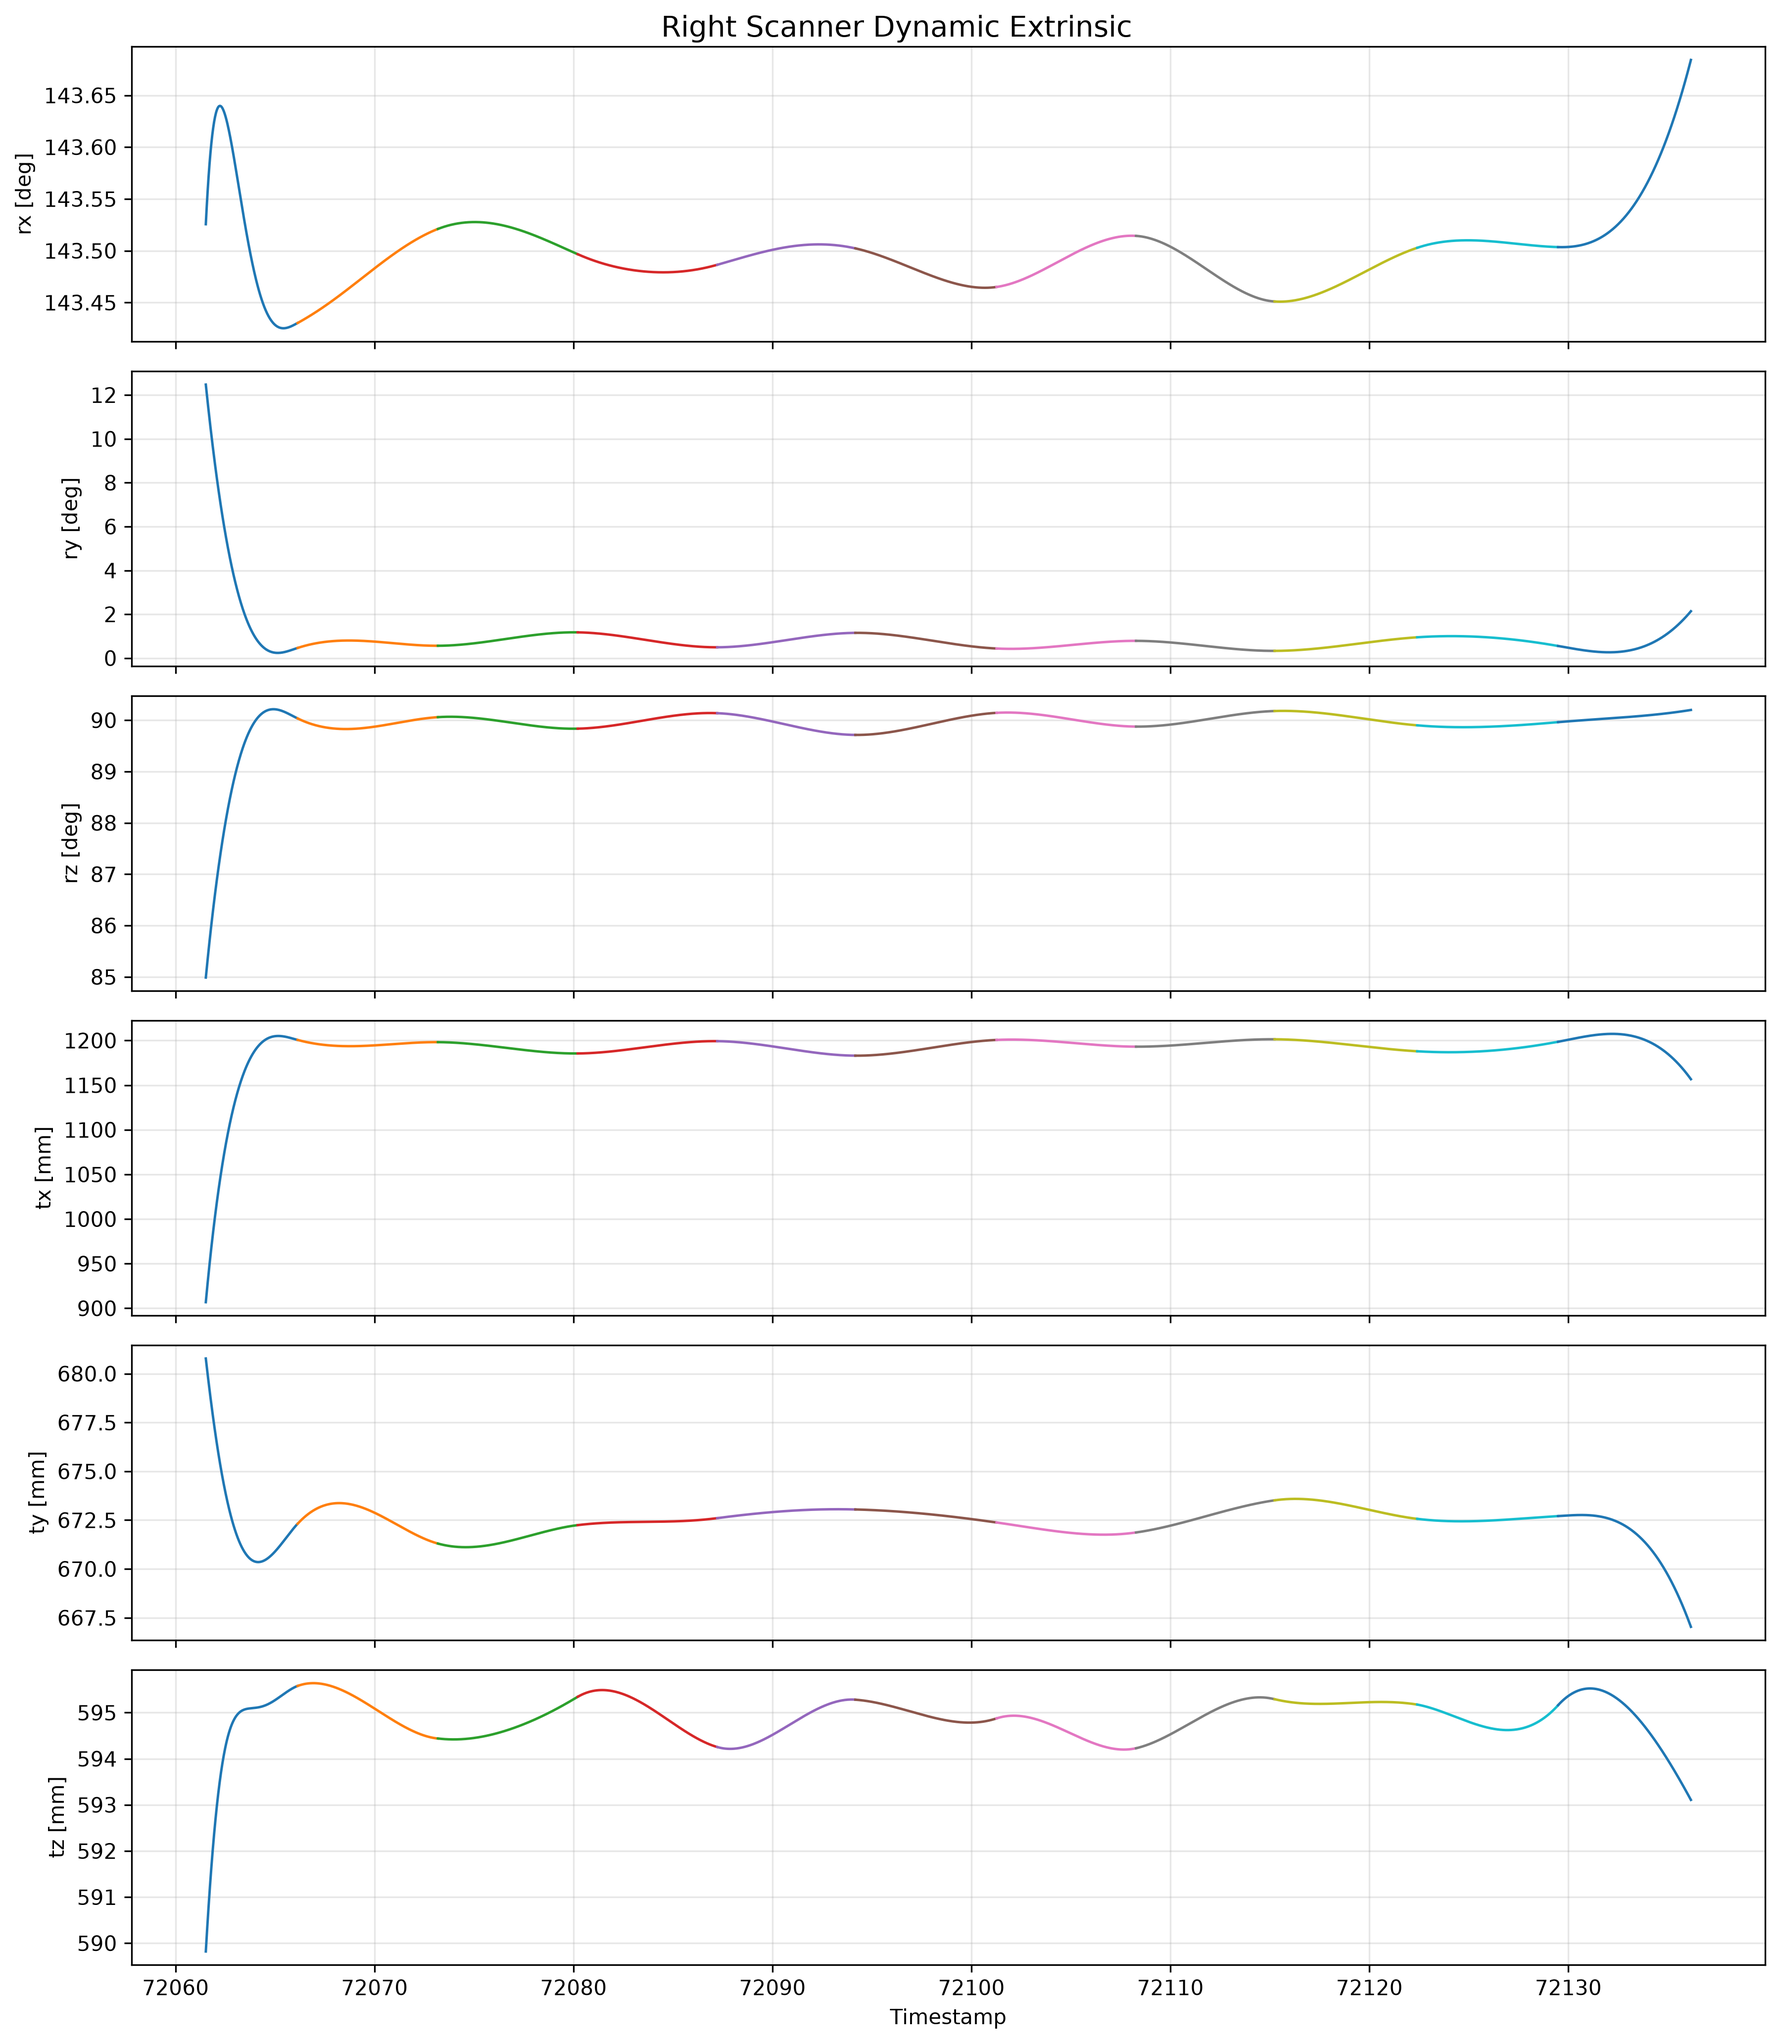
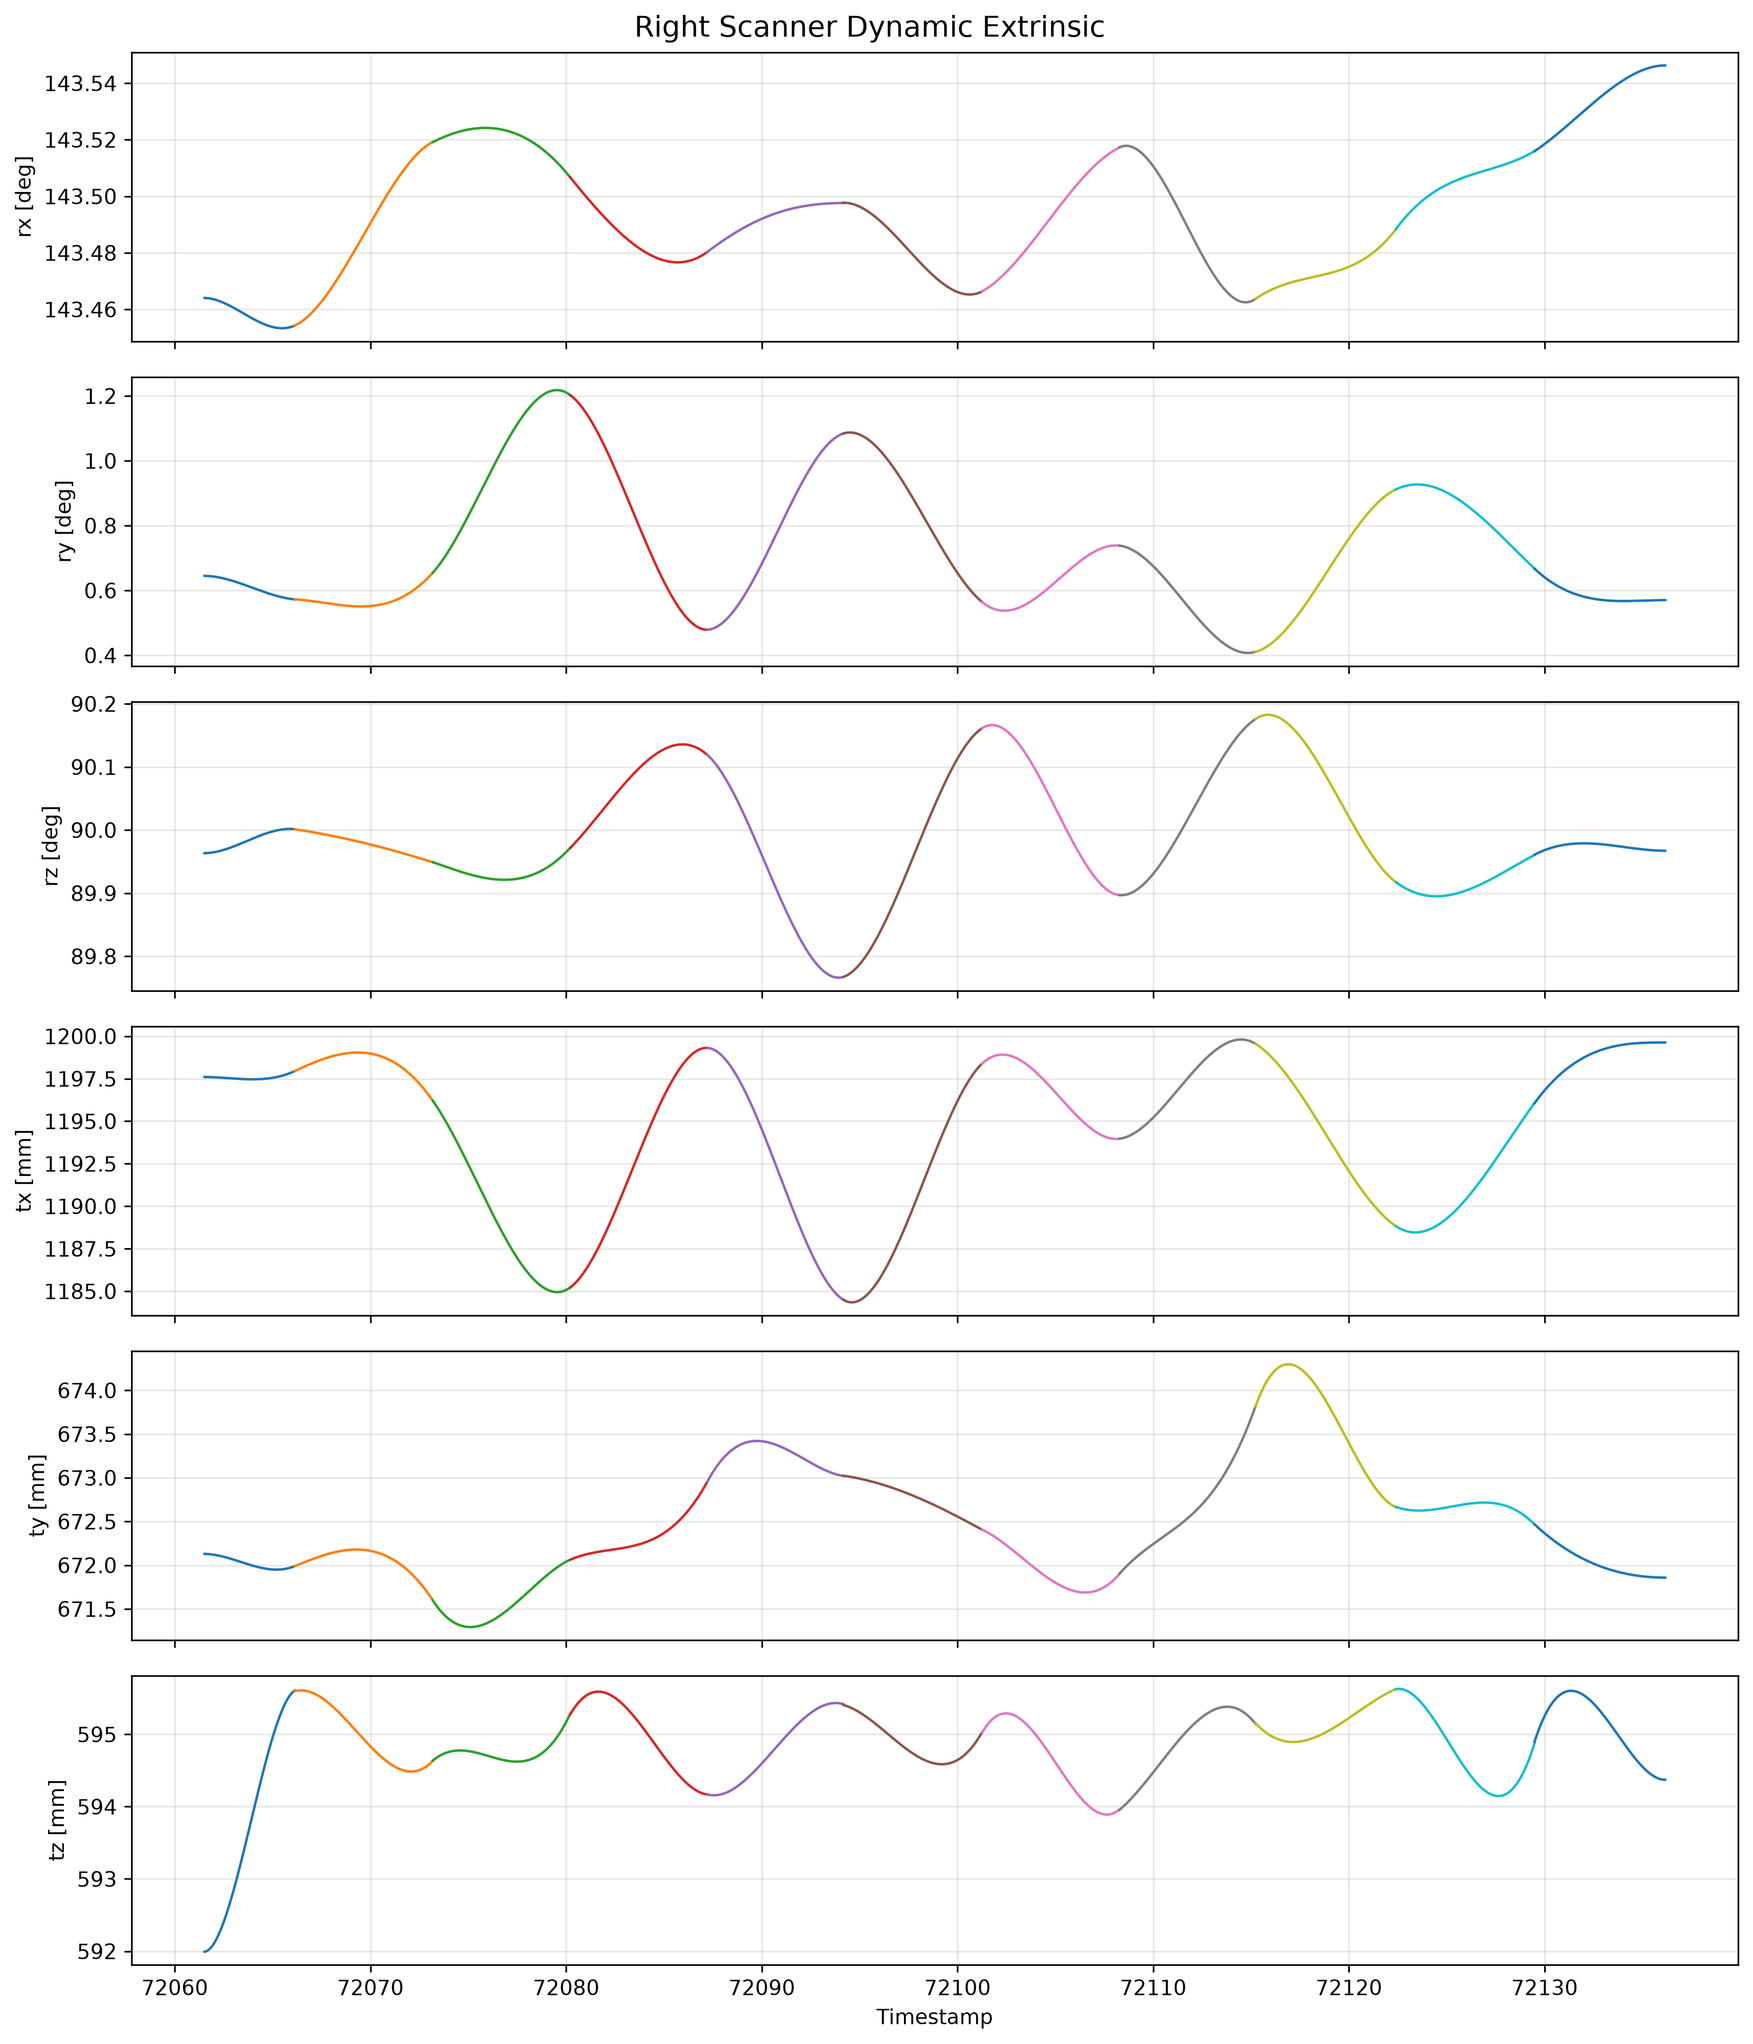
update code

diff --git a/factor_graph/core/gtsam_cubic_spline_optimizer.py b/factor_graph/core/gtsam_cubic_spline_optimizer.py
@@ -1,7 +1,7 @@
 import gtsam
 import numpy as np
 
-from factor_graph.core.cubic_factor import icp_error_func,c0_error_func,c1_error_func,c2_error_func,prior_error_func
+from factor_graph.core.cubic_factor import icp_error_func,c0_error_func,c1_error_func,c2_error_func,boundary_c1_error_func,boundary_c2_error_func
 
 
 
@@ -86,12 +86,60 @@ def gtsam_optimize_single_cubic_icp(
         6,
         c2_sigma,
      )
-    # c0_noise = gtsam.noiseModel.Constrained.All(6)
-    # c1_noise = gtsam.noiseModel.Constrained.All(6)
-    # c2_noise = gtsam.noiseModel.Constrained.All(6)
+
     
 
     for i in range(len(window_ids) - 1):
+        # # ============================
+        # # boundary constraints
+        # # ============================
+
+        # first_id = window_ids[0]
+        # last_id = window_ids[-1]
+
+        # first_key = keys[first_id]
+        # last_key = keys[last_id]
+
+        # first_duration = windows[first_id]["window_duration"]
+        # last_duration = windows[last_id]["window_duration"]
+
+        # # 起点：C1 = 0
+        # graph.add(
+        #     gtsam.CustomFactor(
+        #         c1_noise,
+        #         [first_key],
+        #         boundary_c1_error_func(first_duration, is_start=True),
+        #     )
+        # )
+
+        # # 起点：C2 = 0
+        # graph.add(
+        #     gtsam.CustomFactor(
+        #         c2_noise,
+        #         [first_key],
+        #         boundary_c2_error_func(first_duration, is_start=True),
+        #     )
+        # )
+
+        # # 终点：C1 = 0
+        # graph.add(
+        #     gtsam.CustomFactor(
+        #         c1_noise,
+        #         [last_key],
+        #         boundary_c1_error_func(last_duration, is_start=False),
+        #     )
+        # )
+
+        # # 终点：C2 = 0
+        # graph.add(
+        #     gtsam.CustomFactor(
+        #         c2_noise,
+        #         [last_key],
+        #         boundary_c2_error_func(last_duration, is_start=False),
+        #     )
+        # )
+        
+        # #===========================
         left_id = window_ids[i]
         right_id = window_ids[i + 1]
 

diff --git a/factor_graph/core/cubic_factor.py b/factor_graph/core/cubic_factor.py
@@ -502,5 +502,51 @@ def c2_error_func(
 
 
 
+def boundary_c1_error_func(duration, is_start):
+    if is_start:
+        basis = np.array([0., 1., 0., 0.]) / duration
+    else:
+        basis = np.array([0., 1., 2., 3.]) / duration
 
-    
+    jacobian = np.kron(
+        np.eye(6),
+        basis.reshape(1, 4)
+    )
+
+    def error_func(this, values, H):
+        key = this.keys()[0]
+        coefficients = values.atVector(key).reshape(6, 4)
+
+        residual = coefficients @ basis  # 希望 = 0
+
+        if H is not None:
+            H[0] = jacobian
+
+        return residual
+
+    return error_func
+
+
+def boundary_c2_error_func(duration, is_start):
+    if is_start:
+        basis = np.array([0., 0., 2., 0.]) / duration**2
+    else:
+        basis = np.array([0., 0., 2., 6.]) / duration**2
+
+    jacobian = np.kron(
+        np.eye(6),
+        basis.reshape(1, 4)
+    )
+
+    def error_func(this, values, H):
+        key = this.keys()[0]
+        coefficients = values.atVector(key).reshape(6, 4)
+
+        residual = coefficients @ basis  # 希望 = 0
+
+        if H is not None:
+            H[0] = jacobian
+
+        return residual
+
+    return error_func
